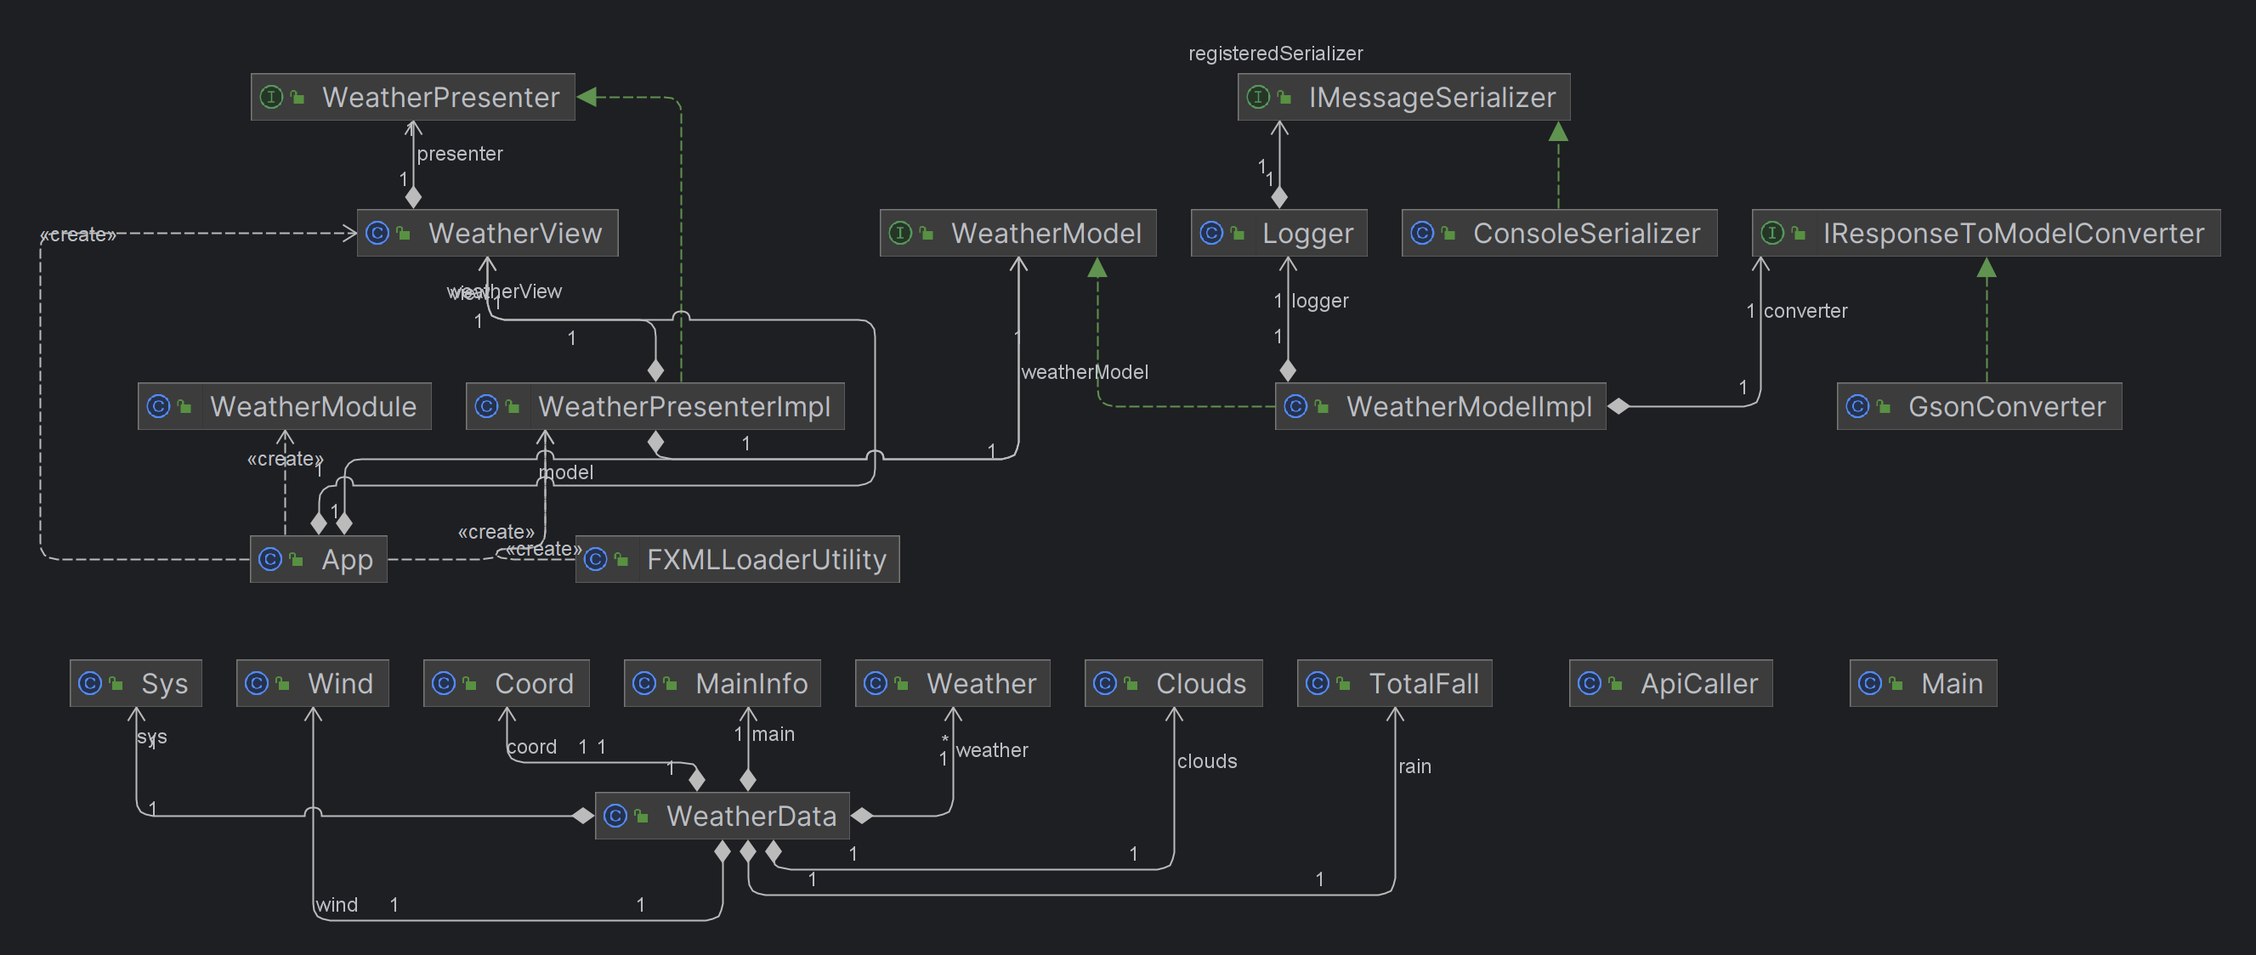
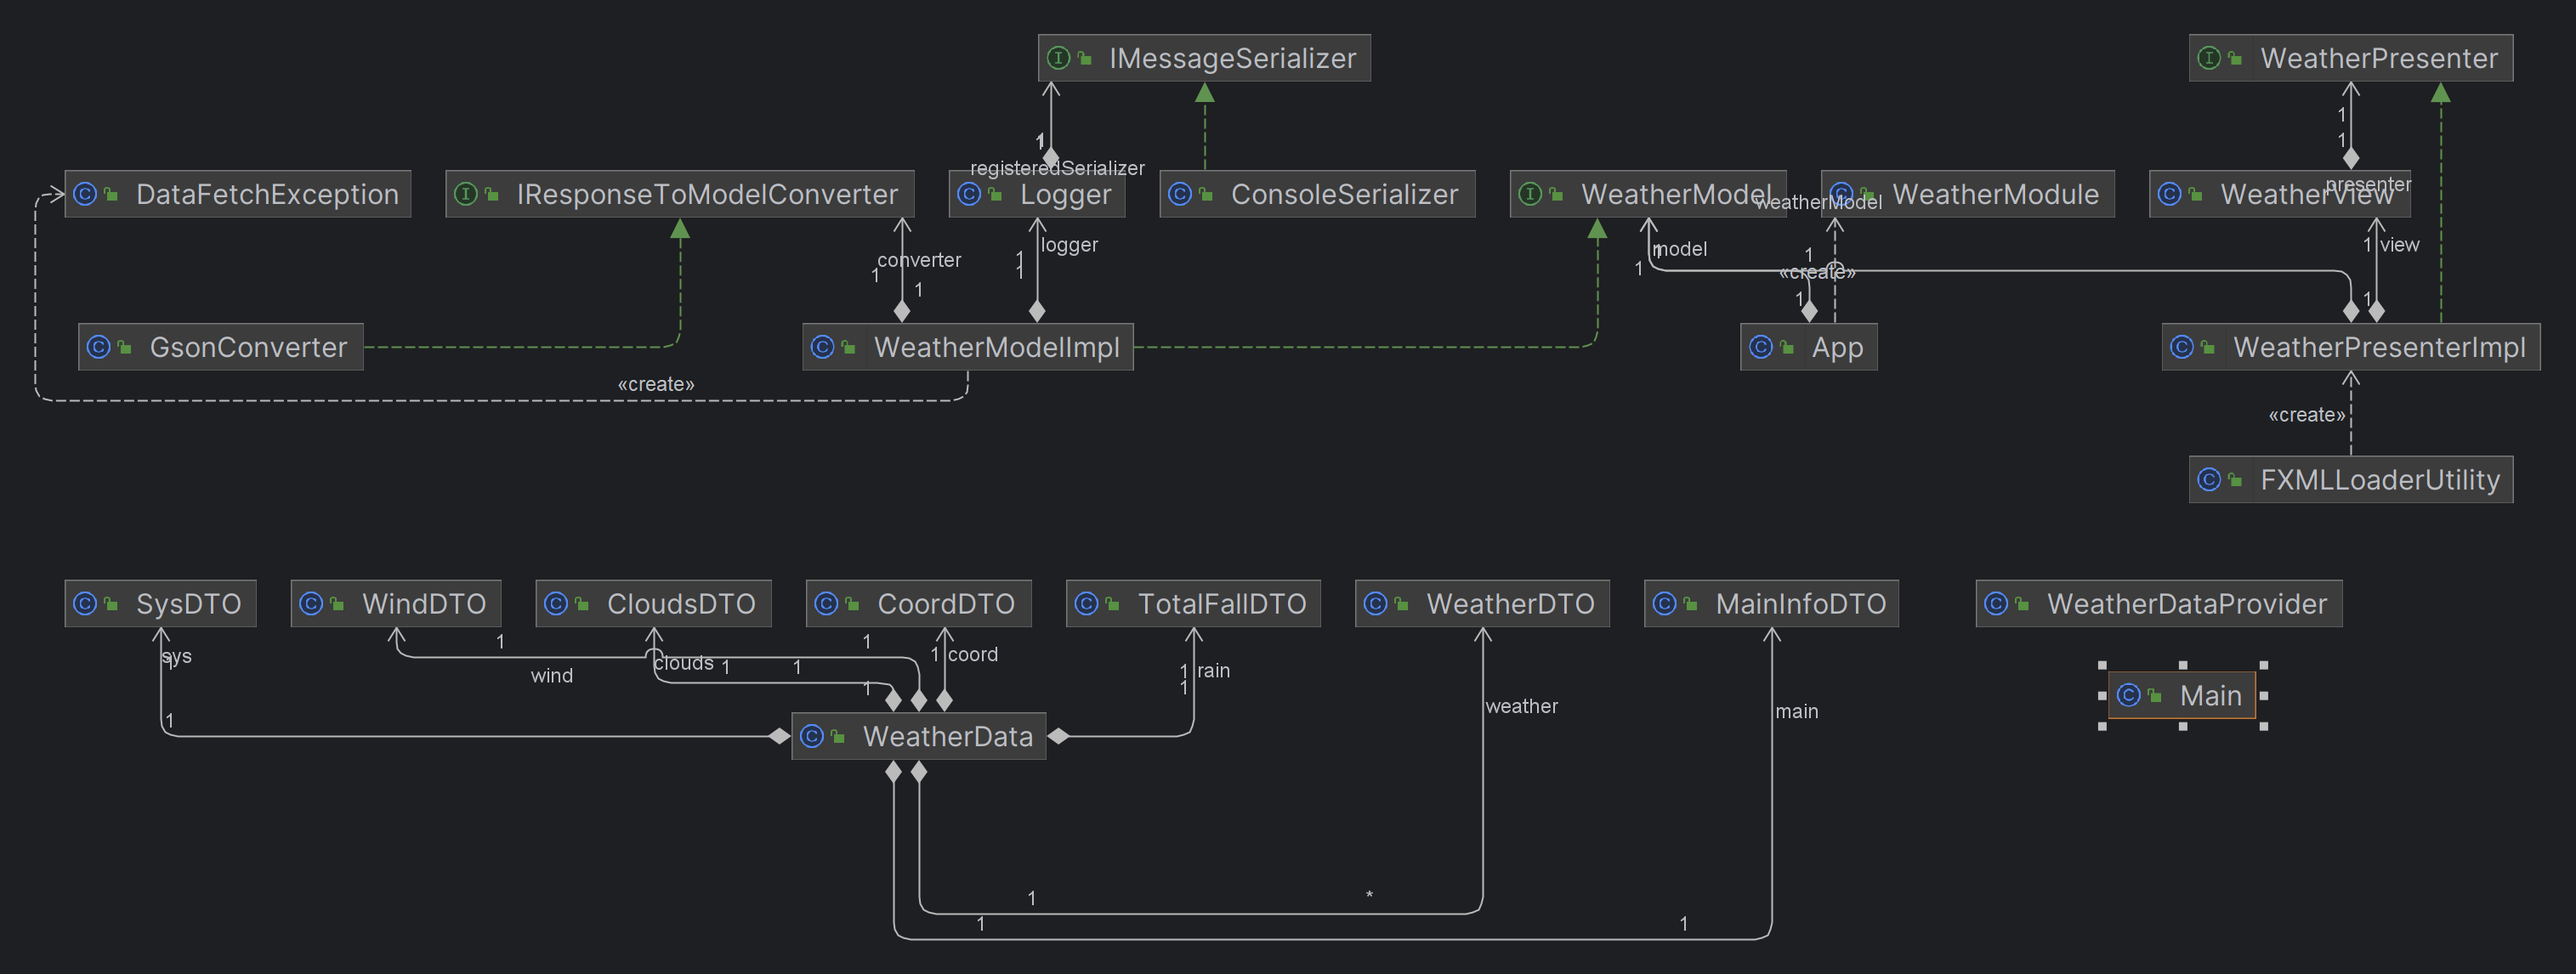
Readme: Changed class names and schema, removed typos

diff --git a/README.md b/README.md
@@ -56,17 +56,21 @@ Po uruchomieniu aplikacji, użytkownikowi wyświetla się okno, w którym może 
 W projekcie użyliśmy następujących zależności:
 ```
 dependencies {
-   testImplementation group: 'org.junit.jupiter', name: 'junit-jupiter-api', version: '5.10.1'
-   testRuntimeOnly group: 'org.junit.jupiter', name: 'junit-jupiter-engine', version: '5.10.1'
-   implementation("com.squareup.okhttp3:okhttp:4.11.0")
-   implementation 'com.google.code.gson:gson:2.10.1'
-   implementation group: 'com.google.inject', name: 'guice', version: '5.0.1'
-   testImplementation 'org.mockito:mockito-core:3.12.4'
+	testImplementation group: 'org.junit.jupiter', name: 'junit-jupiter-api', version: '5.10.1'
+    testRuntimeOnly group: 'org.junit.jupiter', name: 'junit-jupiter-engine', version: '5.10.1'
+    implementation("com.squareup.okhttp3:okhttp:4.11.0")
+    implementation 'com.google.code.gson:gson:2.10.1'
+    implementation group: 'com.google.inject', name: 'guice', version: '5.0.1'
+    testImplementation 'org.mockito:mockito-core:3.12.4'
+    testImplementation "org.testfx:testfx-core:4.0.17"
+    testImplementation group: 'org.hamcrest', name: 'hamcrest', version: '2.1'
+    testImplementation "org.testfx:testfx-junit5:4.0.17"
 }
+
 ```
 Pierwsze dwie zależności są potrzebne do testowania aplikacji. Do testowania aplikacji również przydatne jest mockito, gdyż pozwala nam na tworzenie atrap.
 OkHttp3 pozwala nam na komunikację z zewnętrznym API. Dzięki Gson'owi możemy łatwiej konwertować przydatne nam w implementacjach informacje. Guice natomiast pozwala nam na wstrzykiwanie zależności.
-
+TestFX pozwala nam na testowanie aplikacji z GUI w stosunkowo łatwy sposób.
 
 ### Struktura projektu
 
@@ -78,6 +82,7 @@ Nasz projekt podzielony jest na wiele pakietów oraz klas. Poniżej przedstawiam
       - java/
          - pl.edu.agh.to2.WeatherApp/
             - api/
+            - exceptions/
             - logger/
             - model/
             - presenter/
@@ -94,14 +99,22 @@ Nasz projekt podzielony jest na wiele pakietów oraz klas. Poniżej przedstawiam
             - logger/
             - model/
             - presenter/
+            - view/
             -MainTest.java
 ```
 ### Opisy pakietów i klas
-#### Pakiet Api
-Pakiet Api zawiera klasy odpowiedzialne za komunikację z zewnętrznym API. W naszym przypadku jest to API pogodowe. W tym pakiecie znajdują się klasy odpowiedzialne za pobieranie danych z API oraz klasy odpowiedzialne za przetwarzanie danych.
+#### Pakiet api
+Pakiet Api zawiera klasy odpowiedzialne za komunikację z zewnętrznym API pogodowym. W tym celu wykorzystujemy bibliotekę OkHttp3.
 
 Klasy:
-1. **ApiCaller**: wykonuje zapytania do api pogodowego i zwraca dane dotyczące pogody.
+1. **WeatherDataProvider**: wykonuje zapytania do api pogodowego i zwraca dane dotyczące pogody.
+
+#### Pakiet exceptions
+
+Pakiet exceptions zawiera klasy odpowiedzialne za obsługę wyjątków.
+
+Klasy:
+1. **DataFetchException**: klasa odpowiedzialna za obsługę wyjątków związanych z pobieraniem danych
 
 #### Pakiet logger
 Zawiera metody pozwalające na logowanie informacji oraz ewentualnych błędów w aplikacji.
@@ -118,18 +131,18 @@ Zawiera elementy modelu, konwertuje na obiektu klasy WeatherData za pomocą bibl
 Klasy:
 1. **WeatherModule**: definuje dostawców dla interfejsów, zapewniając im konkretne implementacje, z pomocą Guice
 2. **WeatherModel**: interfejs zawierający metody pozwalające na pobranie informacji o pogodzie
-3. **WeatherData/WeatherData**: klasa zawierająca informacje o pogodzie przygotowana z myślą o API OpenWeatherMap
-4. **WeatherData/JsonData/...**: w tym katalogu znajdują się klasy poszczególnych elementów modelu takie jak:
-   - Clouds: klasa zawierająca informacje o zachmurzeniu procentowym
-   - Coord: klasa zawierająca informacje o współrzędnych geograficznych
-   - MainInfo: klasa zawierająca informacje o temperaturze, ciśnieniu, wilgotności czy odczuwalnej temperaturze
-   - Sys: klasa zawierająca informacje o kraju, godzinie wschodu i zachodu słońca
-   - TotalFall: klasa zawierająca informacje o opadach w ciągu ostatniej godziny oraz w ciągu ostatnich 3 godzin
-   - Weather: klasa zawierająca informacje o pogodzie (np. opis, ikona)
-   - Wind: klasa zawierająca informacje o wietrze (np. prędkość, kierunek)
+3. **weatherData/WeatherData**: klasa zawierająca informacje o pogodzie przygotowana z myślą o API OpenWeatherMap
+4. **weatherData/JsonData/...**: w tym katalogu znajdują się klasy poszczególnych elementów modelu takie jak:
+   - CloudsDTO: klasa zawierająca informacje o zachmurzeniu procentowym
+   - CoordDTO: klasa zawierająca informacje o współrzędnych geograficznych
+   - MainInfoDTO: klasa zawierająca informacje o temperaturze, ciśnieniu, wilgotności czy odczuwalnej temperaturze
+   - SysDTO: klasa zawierająca informacje o kraju, godzinie wschodu i zachodu słońca
+   - TotalFallDTO: klasa zawierająca informacje o opadach w ciągu ostatniej godziny oraz w ciągu ostatnich 3 godzin
+   - WeatherDTO: klasa zawierająca informacje o pogodzie (np. opis, ikona)
+   - WindDTO: klasa zawierająca informacje o wietrze (np. prędkość, kierunek)
 5. **Impl/WeatherModelImpl**: klasa implementująca interfejs WeatherModel, zawiera metody pozwalające na asynchroniczne pobranie informacji o pogodzie
-6. **Converter/GsonConverter**: klasa odpowiedzialna za konwersję danych z formatu JSON na obiekt klasy WeatherData
-7. **Converter/IResponseToModelConverter**: interfejs zawierający metodę pozwalające na konwersję danych z formatu JSON na obiekt klasy WeatherData
+6. **converter/GsonConverter**: klasa odpowiedzialna za konwersję danych z formatu JSON na obiekt klasy WeatherData
+7. **converter/IResponseToModelConverter**: interfejs zawierający metodę pozwalające na konwersję danych z formatu JSON na obiekt klasy WeatherData
 
 #### Pakiet presenter
 Zawiera implementację prezentera odpowiedzialną za komunikację między widokiem a modelem.
